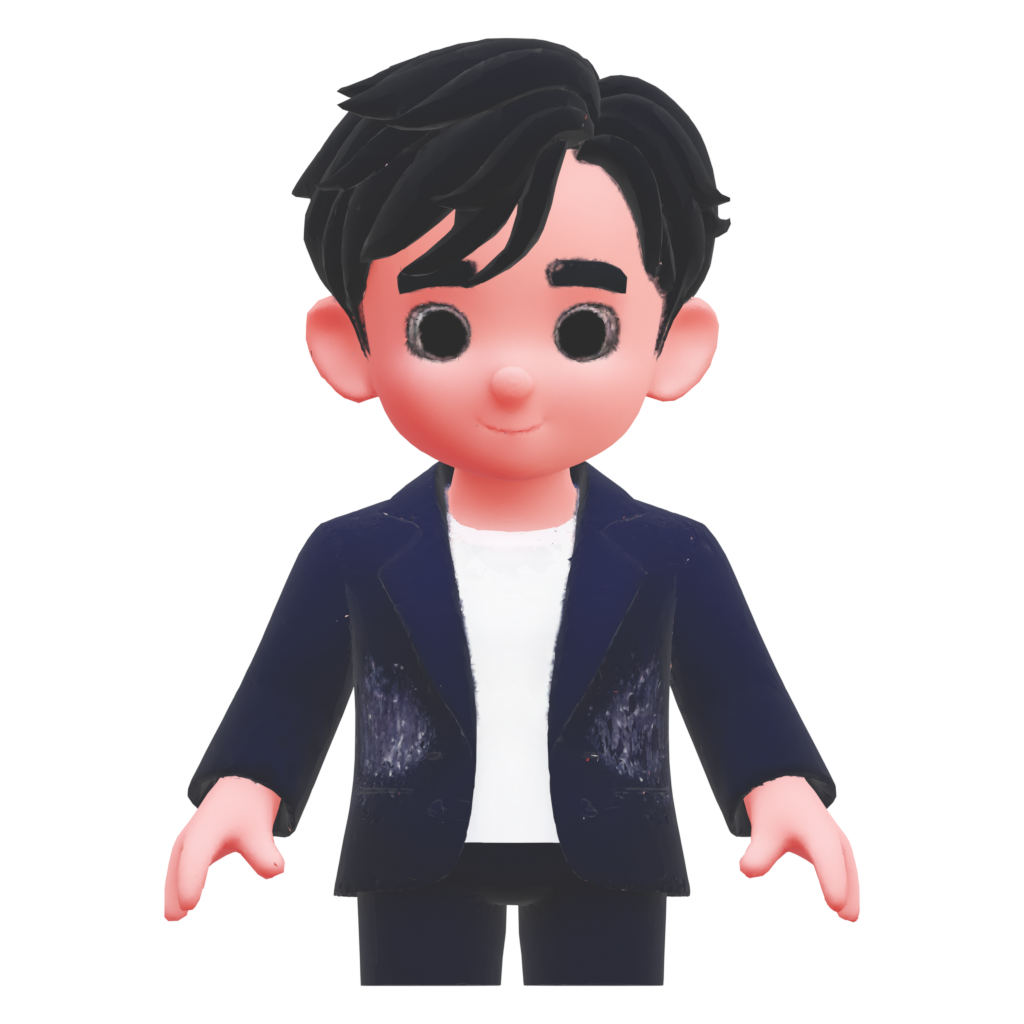
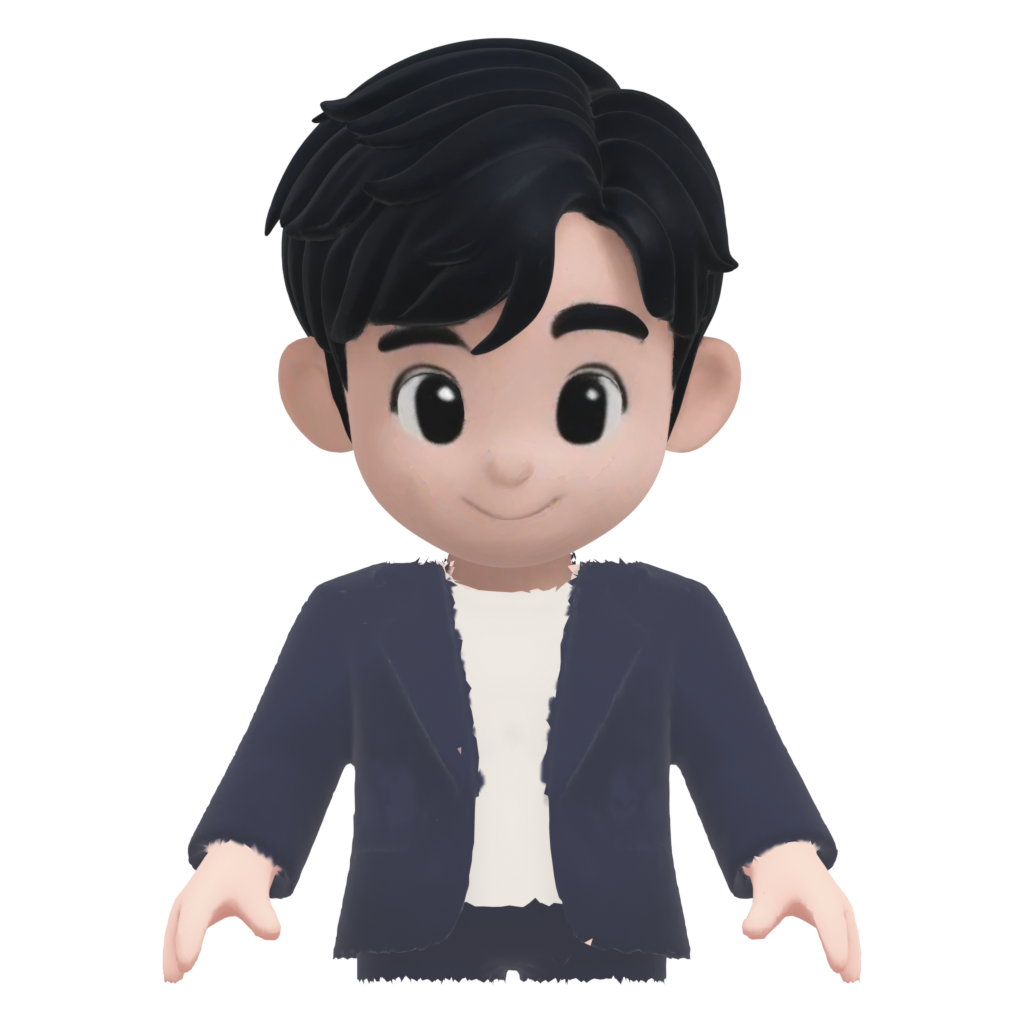
fix: 리깅 — 손 랜드마크가 없으면 아래팔 연장선으로 임시 손가락 점, 깃 아래 피부색 조각 제거, --baked-face 로 얼굴이 텍스처에 구워진 모델 표시

Changed region(s): [[0.1562, 0.0312, 0.8438, 0.9688], [0.375, 0.1562, 0.4062, 0.1875]]

diff --git a/rig/rig.py b/rig/rig.py
@@ -202,6 +202,20 @@ for tag, other in (('L', 'R'), ('R', 'L')):
         w_this = P[15][:2] if tag == 'L' else P[16][:2]
         hand_pts[tag] = [(w_this[0] - (p[0] - w_other[0]), w_this[1] + (p[1] - w_other[1])) for p in src]
         log(f'hand {tag}: mirrored from {other}')
+# 양손 다 못 찾으면(손을 새 손으로 갈아 끼울 때는 생성 손 랜드마크가 필요 없다) 아래팔 연장선으로 임시 점을 만든다
+for tag, ei, wi in (('L', 13, 15), ('R', 14, 16)):
+    if tag not in hand_pts:
+        (ex, ey), (wx, wy) = P[ei][:2], P[wi][:2]
+        dx, dy = wx - ex, wy - ey
+        ln = max(1e-6, (dx * dx + dy * dy) ** 0.5)
+        ux, uy = dx / ln, dy / ln
+        px = lambda t, o=0.0: (wx + ux * t * ln - uy * o * ln, wy + uy * t * ln + ux * o * ln)  # noqa: E731
+        pts = [px(0)] * 21
+        for i, (t, o) in {1: (0.1, -0.12), 2: (0.2, -0.18), 3: (0.3, -0.2), 4: (0.4, -0.2),
+                          5: (0.35, -0.06), 10: (0.55, 0.0), 12: (0.75, 0.0), 14: (0.55, 0.03), 16: (0.72, 0.04), 17: (0.33, 0.08)}.items():
+            pts[i] = px(t, o)
+        hand_pts[tag] = pts
+        log(f'hand {tag}: synthesized from forearm')
 for tag in ('L', 'R'):
     hp = hand_pts[tag]
     J[f'hand_{tag}'] = J[f'wrist_{tag}']
@@ -452,6 +466,42 @@ def cut_hand(tag):
 for tag in ('L', 'R'):
     cut_hand(tag)
 body.data.update()
+
+
+def drop_stray_skin(z_max):
+    """깃 아래 몸 메시에 남은 피부색 조각(잘린 생성 손의 잔해·안쪽 껍질)이 소매·재킷 밖으로 비친다 → 지운다.
+    재질마다 자기 텍스처에서 색을 읽는다 (머리 이식 모델은 재질이 둘이다). 새 손은 이 뒤에 붙으니 영향이 없다."""
+    me = body.data
+    imgs = {}
+    for mi, m in enumerate(me.materials):
+        for n in (m.node_tree.nodes if m and m.node_tree else []):
+            if n.type == 'TEX_IMAGE' and n.image:
+                w, h = n.image.size
+                px = np.empty(w * h * 4, np.float32)
+                n.image.pixels.foreach_get(px)
+                imgs[mi] = (px.reshape(h, w, 4), w, h)
+                break
+    uv = me.uv_layers.active.data
+    dead = []
+    for poly in me.polygons:
+        if poly.center.z > z_max or poly.material_index not in imgs:
+            continue
+        arr, w, h = imgs[poly.material_index]
+        u = sum(uv[i].uv[0] for i in poly.loop_indices) / poly.loop_total % 1.0
+        v = sum(uv[i].uv[1] for i in poly.loop_indices) / poly.loop_total % 1.0
+        r, g, b_ = arr[min(h - 1, int(v * h)), min(w - 1, int(u * w)), :3]
+        if r > 0.45 and r - b_ > 0.12:
+            dead.append(poly.index)
+    bm_ = bmesh.new()
+    bm_.from_mesh(me)
+    bm_.faces.ensure_lookup_table()
+    bmesh.ops.delete(bm_, geom=[bm_.faces[i] for i in dead], context='FACES')
+    bm_.to_mesh(me)
+    bm_.free()
+    log(f'stray skin faces removed below z={z_max:.2f}: {len(dead)}')
+
+
+drop_stray_skin(J['neck'].z - 0.12)
 bm = bmesh.new()
 bm.from_mesh(body.data)
 bmesh.ops.delete(bm, geom=[v for v in bm.verts if not v.link_faces], context='VERTS')
@@ -1000,6 +1050,8 @@ info = {
     'source': Path(SRC).name,
     'scale': S,
     'height': APP_H,
+    # --baked-face: 얼굴(눈·입)이 텍스처에 잘 구워져 있다 (머리 이식 모델). 오버레이는 깜빡임·입 벌림만 그린다
+    'bakedFace': '--baked-face' in argv,
     'joints': {k: three(v) for k, v in J.items()},
     'palm': ({t: three(placed[t]['palm']) for t in ('L', 'R')} if placed else None),
     'face': {k: {kk: (three(vv) if isinstance(vv, list) else round(vv, 4)) for kk, vv in d.items()} for k, d in face.items()},
